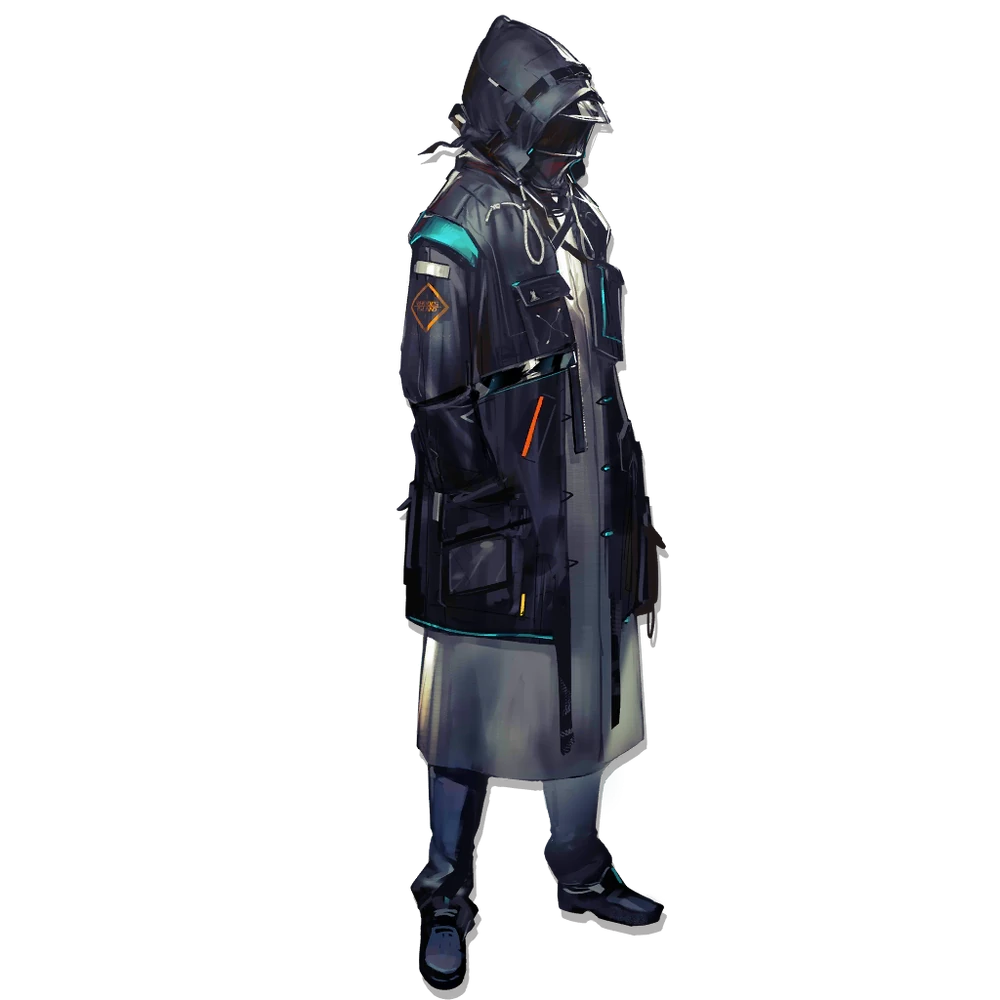
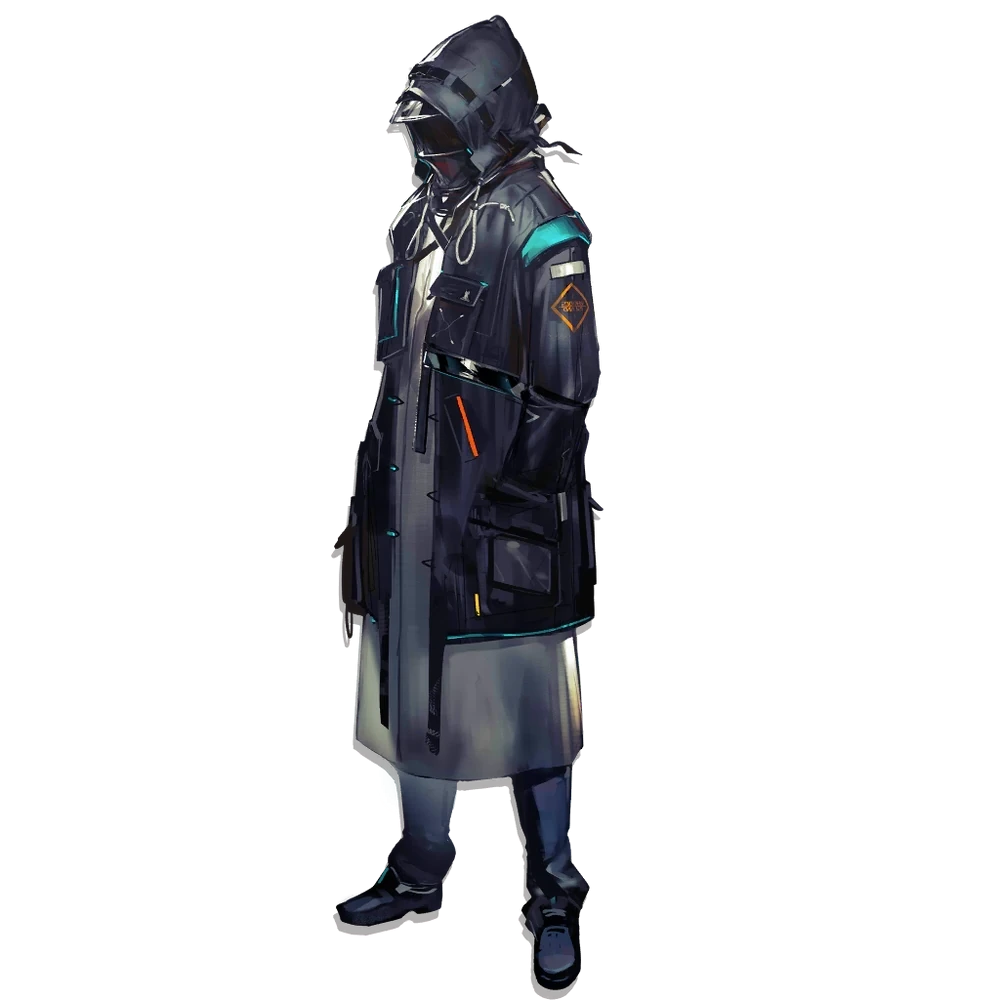
初音ミク

Changed region(s): [[0.31, 0.0, 0.682, 1.0]]

diff --git a/readme.md b/readme.md
@@ -1,7 +1,7 @@
 J...
 ---
 
-<img src="img/Doctor.webp" alt="Doc_img" width="330" align="right" style="margin: 0 auto 10px auto; transform: scaleX(-1);">
+<img src="img/Doctor.webp" alt="Doc_img" width="330" align="right" style="margin: 0 auto 10px auto;">
 
 🔹Interests: Coding, anime, competitive gaming and music  
 🔹Current goal: My personal website  
